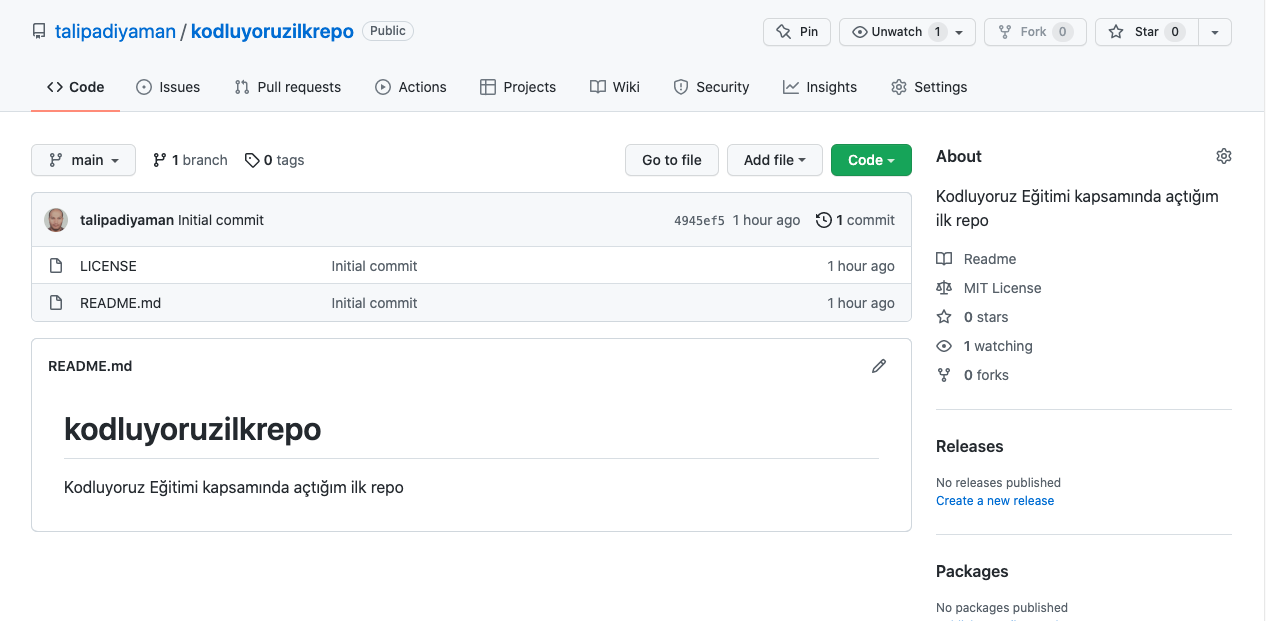
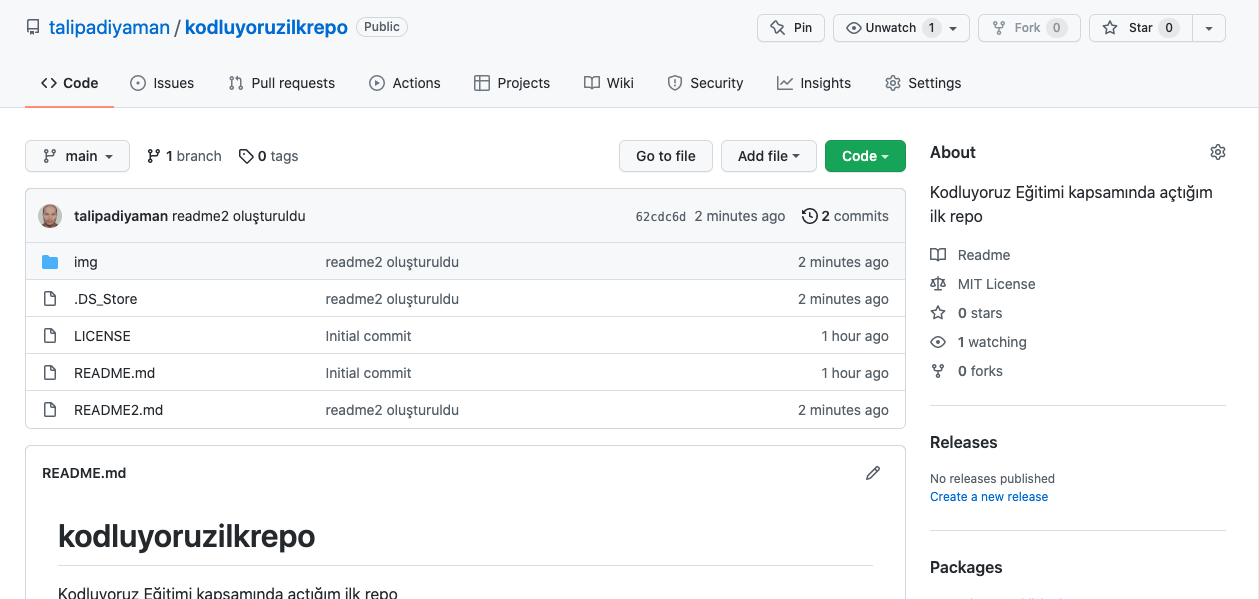
img yükleme değişikliği

diff --git a/README2.md b/README2.md
@@ -2,14 +2,14 @@
 
 Bu repo [Kodluyoruz](https://www.kodluyoruz.org) Front-End Eğitiminde oluşturduğumuz ilk repo. İçerisinde bir adet README dosyası, bir adet de index.html barındırıyor.
 
-![github](figures/github.png)
+![github](img/github.png)
 
 ## Installation
 
 Öncelikle projeyi clonelayın. (Buraya sizin reponuzdan aldığınız link gelecek)
 
 ```bash
-git clone https://github.com/cengizcmataraci/kodluyoruzilkrepo.git
+git clone https://github.com/talipadiyaman/kodluyoruzilkrepo.git
 ```
 
 ## Usage
